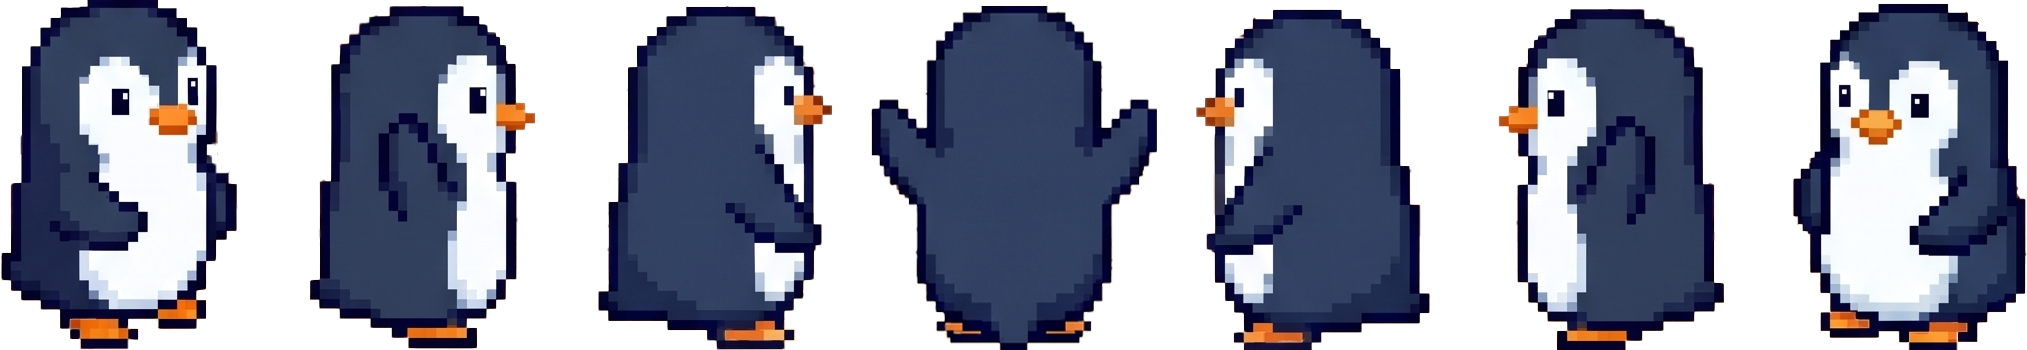
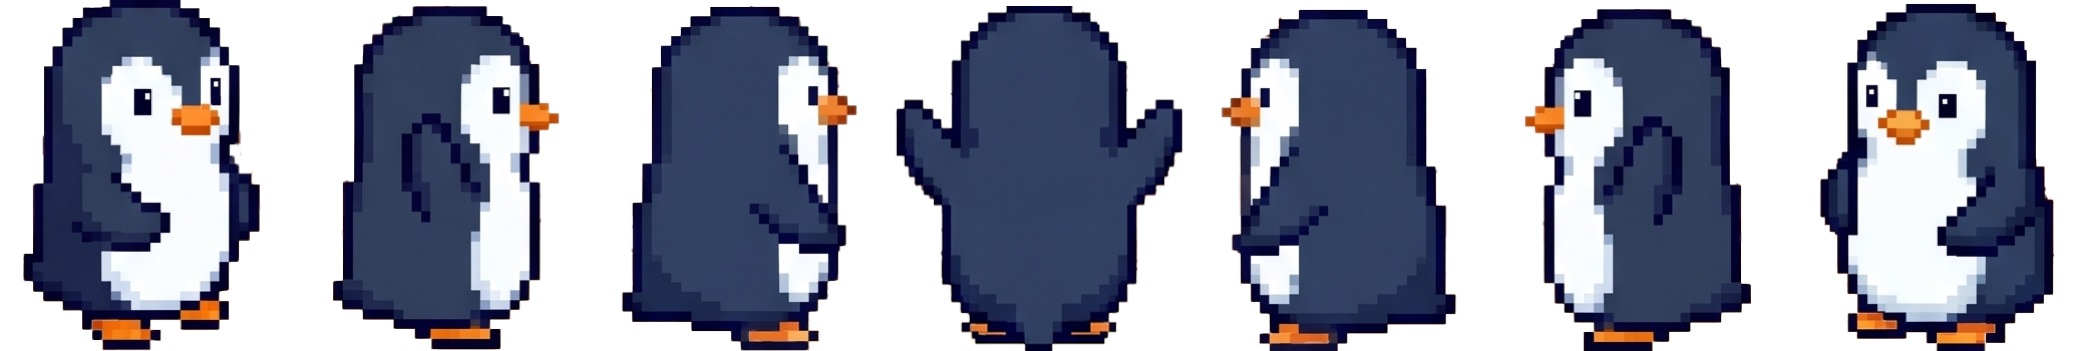
fix(pet): ペンギン待機アニメーションのスプライト境界ずれを修正
新スプライトシート（2080×351px、8コマ）に対してCSSが旧サイズ（1024×128px）を
参照していたため、幅・高さの縮小率が異なりフレーム境界でにじみ（泣き別れ）が発生していた。
6/13スケール（120×162px/コマ）に統一し、move側（1932×568px、4コマ）も合わせて修正。

diff --git a/public/style.css b/public/style.css
@@ -5267,40 +5267,49 @@ body[data-workspace="chat"] {
   background-size: cover;
 }
 
-/* ペンギン：基本設定 */
+/* ペンギン：完全再構築版 */
 .pet-character.penguin {
-    width: 128px;
-    height: 128px;
+    width: 120px;
+    height: 162px;
     image-rendering: pixelated;
     position: absolute;
+    /* 位置移動のCSS遷移のみを定義 */
     transition: left 1.5s ease-in-out, top 1.5s ease-in-out;
 }
 
-/* 待機：8コマ */
+/* 待機：8コマ（実寸2080×351 → 6/13スケール: 120×162px/コマ） */
 .pet-character.penguin.state-idle {
     background-image: url('/img/pets/penguin_idle.png');
     background-repeat: no-repeat;
-    background-size: 1024px 128px;
-    animation: penguin-idle-anim 1.6s steps(8) infinite, penguin-float 3.0s ease-in-out infinite;
+    background-size: 960px 162px; /* 120px × 8コマ */
+    animation-name: penguin-idle-anim, penguin-float;
+    animation-duration: 1.6s, 3.0s;
+    animation-timing-function: steps(8, end), ease-in-out;
+    animation-iteration-count: infinite, infinite;
 }
 
-/* 移動：4コマ */
+/* 移動：4コマ（実寸1932×568 → 幅120px基準: 120×141px/コマ） */
 .pet-character.penguin.state-move {
     background-image: url('/img/pets/penguin_move.png');
     background-repeat: no-repeat;
-    background-size: 512px 128px;
-    animation: penguin-move-anim 0.6s steps(4) infinite;
+    background-size: 480px 141px; /* 120px × 4コマ */
+    background-position: 0 21px; /* 162pxコンテナ内で下寄せ (162-141=21px) */
+    animation-name: penguin-move-anim;
+    animation-duration: 0.6s;
+    animation-timing-function: steps(4, end);
+    animation-iteration-count: infinite;
 }
 
-/* Keyframes */
+/* 待機アニメーション（2080px実寸 → 960px表示、8コマ分） */
 @keyframes penguin-idle-anim {
     from { background-position: 0 0; }
-    to { background-position: -1024px 0; }
+    to { background-position: -960px 0; }
 }
 
+/* 移動アニメーション（1932px実寸 → 480px表示、4コマ分、Y=21px固定） */
 @keyframes penguin-move-anim {
-    from { background-position: 0 0; }
-    to { background-position: -512px 0; }
+    from { background-position: 0 21px; }
+    to { background-position: -480px 21px; }
 }
 
 /* ペンギン専用：ひんやり浮遊 */

diff --git a/public/main.js b/public/main.js
@@ -7092,8 +7092,8 @@ function spawnPetOnStage(petType, role = 'guest') {
         petWidth = 160;
         petHeight = 128;
       } else if (petType === 'penguin') {
-        petWidth = 128;
-        petHeight = 128;
+        petWidth = 120;
+        petHeight = 162;
       }
 
       const currentX = parseInt(petEl.style.left) || 0;
